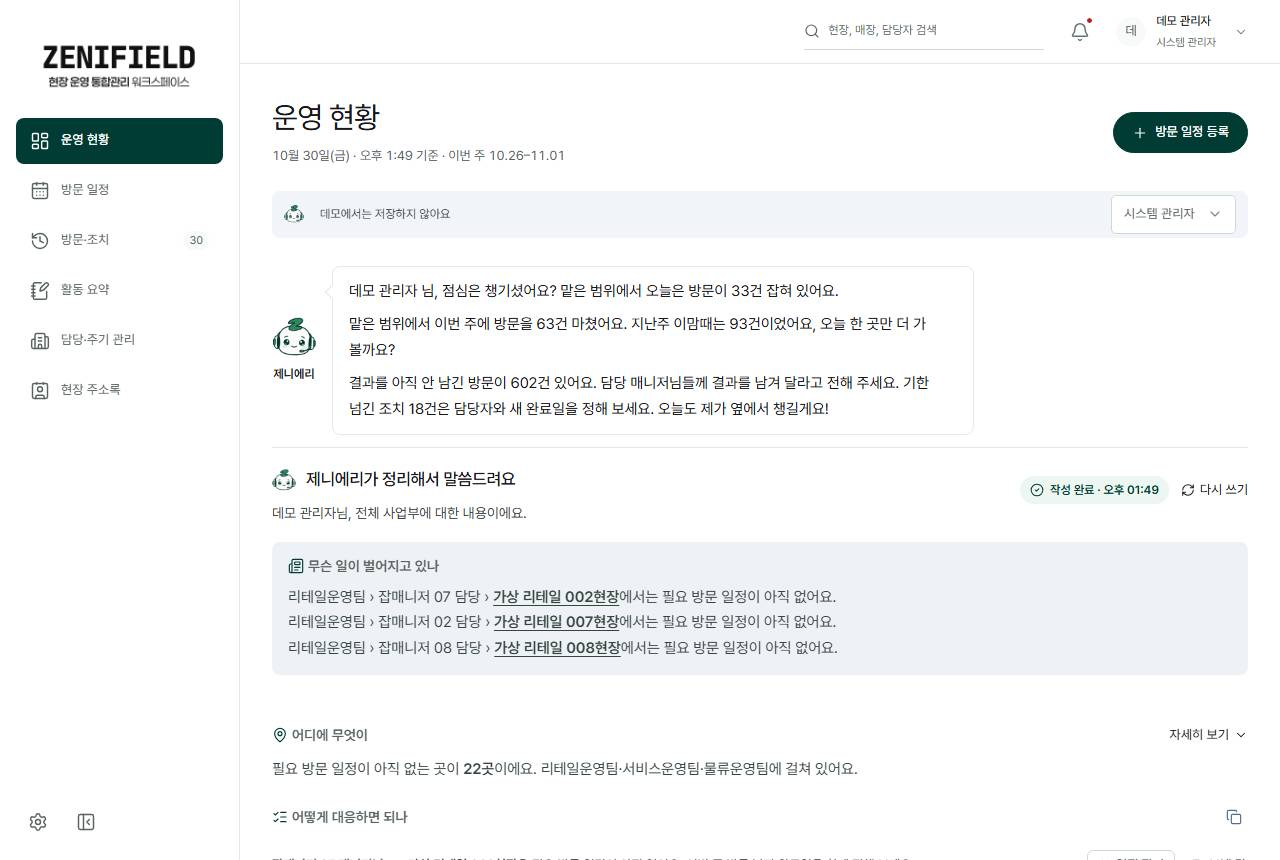
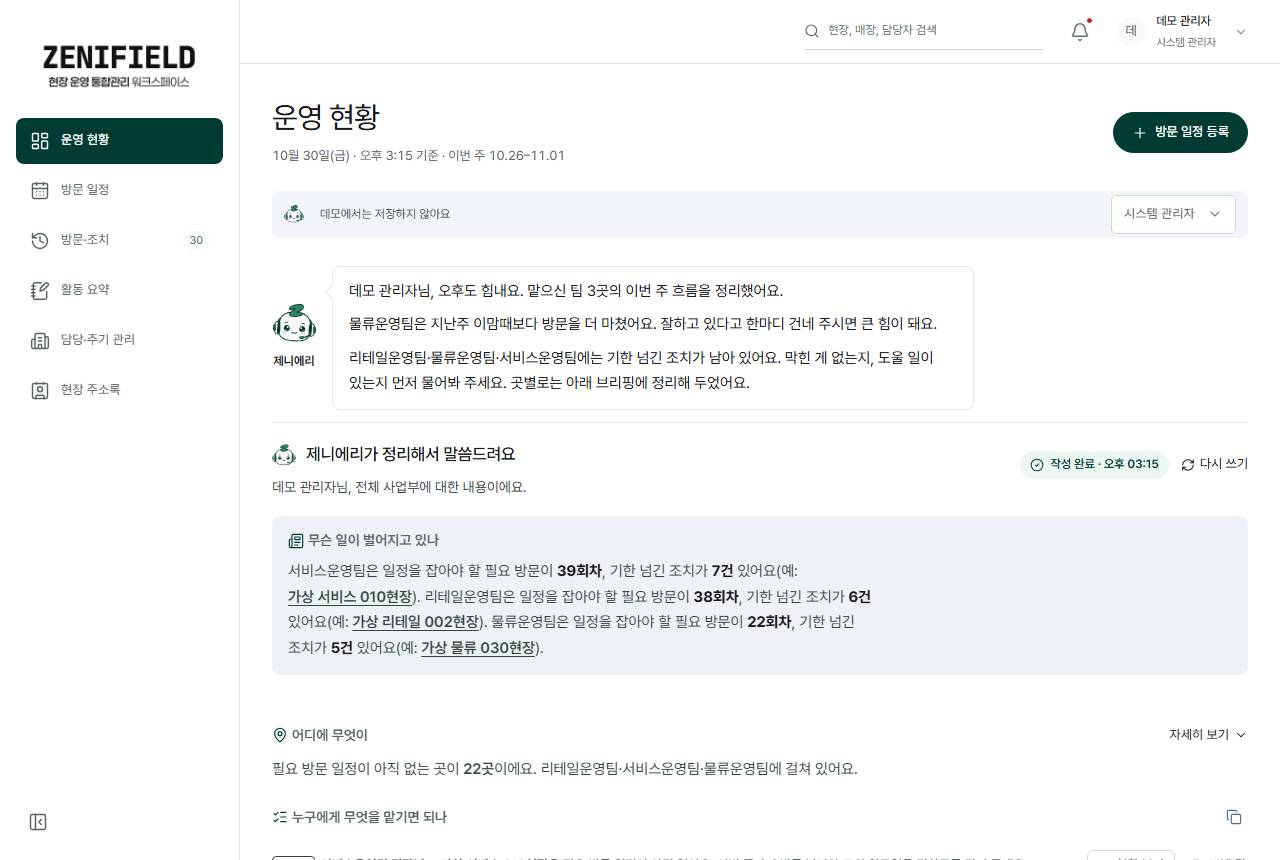
조회 필터: 기간을 범위 버튼 바로 뒤로(모든 화면 한 줄), 설정 아이콘은 프로필 메뉴 안에만(사이드바 아이콘 삭제)

diff --git a/app/platform/app.tsx b/app/platform/app.tsx
@@ -149,7 +149,7 @@ export default function PlatformApp({initialData,liveMode=false,onSaveLive,onDem
  const canNarrow=showLevel('division',divisionOptions)||showLevel('team',teamOptions)||showLevel('part',partOptions)||showLevel('manager',roleManagers)||filterSites.length>1||filterStores.length>1||page==='sites';
  const filterCount=[division,team,part,manager,siteId,storeId,region,status,search].filter(Boolean).length;
  return <div className={'app-shell platform-app '+(collapsed?'sidebar-collapsed':'')}>
- <a inert={mobile} className="skip-link" href="#main-content">본문으로 바로가기</a><aside ref={sidebarRef} id="workspace-sidebar" role={mobile?'dialog':undefined} aria-modal={mobile?true:undefined} aria-label={mobile?'주 메뉴':undefined} className={'sidebar '+(mobile?'mobile-open':'')}><button className="iconbtn mobile-sidebar-close" aria-label="메뉴 닫기" onClick={()=>setMobile(false)}><X size={20}/></button><a className="brand" href="#" onClick={e=>{e.preventDefault();go('dashboard')}} aria-label="ZeniField 통합 홈"><BrandIdentity/></a><nav aria-label="주 메뉴">{nav.map(([id,l0,Icon])=>{const l=navLabel(id,l0,me.role);return <button title={collapsed?l:undefined} className={activePage===id?'selected':''} key={id} onClick={()=>id==='results'?go('actions','미처리'):go(id)} aria-current={activePage===id?'page':undefined}><Icon size={20}/><span>{l}</span>{id==='results'&&openIssues.length>0&&<em>{openIssues.length}</em>}</button>})}</nav><div className="sidebar-bottom">{['admin','director'].includes(me.role)&&<button className={'collapse-btn settings-btn'+(page==='settings'?' selected':'')} aria-label="설정" title="설정" aria-current={page==='settings'?'page':undefined} onClick={()=>go('settings')}><Settings size={20}/></button>}<button className="collapse-btn" aria-label={collapsed?'사이드바 펼치기':'사이드바 접기'} aria-expanded={!collapsed} onClick={()=>setCollapsed(!collapsed)}>{collapsed?<PanelLeftOpen size={20}/>:<PanelLeftClose size={20}/>}</button><div className="sidebar-brand"><div><b>ZeniField Workspace</b><small>계획 · 방문 · 결과 · 후속 조치</small></div></div></div></aside>
+ <a inert={mobile} className="skip-link" href="#main-content">본문으로 바로가기</a><aside ref={sidebarRef} id="workspace-sidebar" role={mobile?'dialog':undefined} aria-modal={mobile?true:undefined} aria-label={mobile?'주 메뉴':undefined} className={'sidebar '+(mobile?'mobile-open':'')}><button className="iconbtn mobile-sidebar-close" aria-label="메뉴 닫기" onClick={()=>setMobile(false)}><X size={20}/></button><a className="brand" href="#" onClick={e=>{e.preventDefault();go('dashboard')}} aria-label="ZeniField 통합 홈"><BrandIdentity/></a><nav aria-label="주 메뉴">{nav.map(([id,l0,Icon])=>{const l=navLabel(id,l0,me.role);return <button title={collapsed?l:undefined} className={activePage===id?'selected':''} key={id} onClick={()=>id==='results'?go('actions','미처리'):go(id)} aria-current={activePage===id?'page':undefined}><Icon size={20}/><span>{l}</span>{id==='results'&&openIssues.length>0&&<em>{openIssues.length}</em>}</button>})}</nav><div className="sidebar-bottom"><button className="collapse-btn" aria-label={collapsed?'사이드바 펼치기':'사이드바 접기'} aria-expanded={!collapsed} onClick={()=>setCollapsed(!collapsed)}>{collapsed?<PanelLeftOpen size={20}/>:<PanelLeftClose size={20}/>}</button><div className="sidebar-brand"><div><b>ZeniField Workspace</b><small>계획 · 방문 · 결과 · 후속 조치</small></div></div></div></aside>
  {mobile&&<button className="mobile-scrim" aria-hidden="true" tabIndex={-1} onClick={()=>setMobile(false)}/>}
  <div className="workspace-main" inert={mobile}><header className="topbar"><div className="header-context"><button className="iconbtn mobile-menu" aria-label="메뉴 열기" aria-expanded={mobile} aria-controls="workspace-sidebar" onClick={()=>setMobile(true)}><Menu size={20}/></button><span>워크스페이스</span><ChevronRight size={14}/><b>{title}</b></div><div className="header-actions"><SearchSuggest className="global-search" label="통합 검색" value={search} onChange={setSearch} options={suggestOptions} onPick={pickSuggestion}/><button className="notification-button iconbtn" aria-label={`확인 필요 업무 ${alertCount}건`} onClick={()=>setNotice(true)}><Bell size={20}/>{alertCount>0&&<i/>}</button><span className="header-divider"/><AccountMenu name={me.name} role={roles[me.role]} org={[me.team,me.part].filter(Boolean).join(' · ')} avatar={<Avatar name={me.name}/>} live={!!liveMode} refreshing={refreshing} onRefresh={onRefresh} onSettings={()=>go('settings')} onLogout={onLogout} onLogin={onConnect}/></div></header>
  <div className={"route-progress"+(pending?" on":"")} role="progressbar" aria-hidden={!pending} aria-label="화면 불러오는 중"><i/></div><main id="main-content" className={"workspace-content"+(pending?" is-pending":"")} tabIndex={-1} aria-busy={pending}><div className="page-heading"><div><div className="page-eyebrow">WORKSPACE <span>/</span> FIELD & STORE OPERATIONS</div><h1>{navLabel(page,title,me.role)}</h1>{page==='dashboard'&&<TodayWhen now={now}/>}</div><div className="page-actions">{editable&&!['settings','briefings','contacts'].includes(page)&&(page!=='sites'||canMaster)&&<><button className="btn primary" onClick={()=>open(primary.entity,undefined,{targetType:type,result:page==='results'})}><Plus size={16}/>{primary.label}</button></>}</div></div>

diff --git a/app/platform/styles.css b/app/platform/styles.css
@@ -501,9 +501,9 @@
 /* 역할별 필터(지침 7절): 기본은 본인 범위로 이미 선택된 상태라 선택 상자를 접어 두고, 현재 범위 버튼을 누르거나 터치할 때만 펼친다 */
 @media(min-width:761px){.app-shell .platform-filters .scope-toggle{display:inline-flex;align-items:center;gap:8px;grid-column:1;grid-row:1;justify-self:start;align-self:center;width:auto;min-height:44px;padding:0 14px;border:1px solid var(--zf-control-border);border-radius:8px;background:var(--zf-surface);color:var(--zf-text);font-size:14px;font-weight:600}.app-shell .platform-filters:not(.filterbar-open) #workspace-filters{display:none}.app-shell .platform-filters.filterbar-open #workspace-filters{display:grid;grid-column:1/-1;grid-row:2;grid-template-columns:repeat(auto-fit,minmax(160px,1fr));gap:8px;padding:0;border:0;margin:0}}
 /* 운영 화면 조회 필터 배치(761px 이상)는 이 블록이 기준이다. 앞선 filterbar 규칙을 덮어쓰며, 다른 파일에 배치 규칙을 더 만들지 않는다.
-   태블릿·데스크톱: [범위 버튼] ··· [기간][초기화] 한 줄(모든 화면 같음) / 펼친 선택 상자는 맨 아래 줄 */
+   태블릿·데스크톱: [범위 버튼][기간] ··· [초기화] 한 줄(기간은 범위 버튼 바로 뒤, 모든 화면 같음) / 펼친 선택 상자는 맨 아래 줄 */
 @media(min-width:761px){
- .app-shell .platform-filters .filterbar-primary{display:grid;grid-template-columns:auto minmax(0,1fr) auto auto;grid-template-areas:"scope . period reset" "selects selects selects selects";align-items:center;gap:8px 12px;flex-wrap:nowrap}
+ .app-shell .platform-filters .filterbar-primary{display:grid;grid-template-columns:auto auto minmax(0,1fr) auto;grid-template-areas:"scope period . reset" "selects selects selects selects";align-items:center;gap:8px 12px;flex-wrap:nowrap}
  .app-shell .platform-filters .filterbar-label{display:none}
  .app-shell .platform-filters .scope-toggle{grid-area:scope}
  .app-shell .platform-filters .filterbar-period{grid-area:period;display:flex;align-items:center;gap:8px;flex-wrap:nowrap;margin:0;max-width:none;flex:none}
@@ -531,9 +531,9 @@
 .period-custom .btn{grid-column:1/-1;min-height:44px}
 .period-custom p{grid-column:1/-1;font-size:11px;color:var(--zf-text-secondary)}
 @media(max-width:760px){.period-picker .period-step{width:40px;min-height:44px}.period-picker .period-label{min-width:0;flex:1;min-height:44px}.app-shell .platform-filters .filterbar-period{flex:1 1 auto;min-width:0}.period-picker{width:100%}.period-panel{position:fixed;left:0;right:0;bottom:0;top:auto;width:auto;max-width:none;padding:16px 16px calc(16px + env(safe-area-inset-bottom));border-radius:12px 12px 0 0}}
-/* 운영 화면 조회 필터 배치(760px 이하): [범위 버튼][초기화] / [◀ 기간 ▶] 전체 폭 / 펼친 선택 상자 */
+/* 운영 화면 조회 필터 배치(760px 이하): [범위 버튼][◀ 기간 ▶][초기화] 한 줄 / 펼친 선택 상자 */
 @media(max-width:760px){
- .app-shell .platform-filters .filterbar-primary{display:grid;grid-template-columns:minmax(0,1fr) 44px;grid-template-areas:"scope reset" "period period" "selects selects";align-items:center;gap:8px}
+ .app-shell .platform-filters .filterbar-primary{display:grid;grid-template-columns:auto minmax(0,1fr) 44px;grid-template-areas:"scope period reset" "selects selects selects";align-items:center;gap:8px}
  .app-shell .platform-filters .scope-toggle{grid-area:scope;min-height:44px}
  .app-shell .platform-filters .filterbar-period{grid-area:period;display:flex;width:100%;margin:0}
  .app-shell .platform-filters .reset-button{grid-area:reset;width:44px;min-width:44px;min-height:44px}
@@ -1103,3 +1103,7 @@ html.zf-calm .zf-ai-mark,html.zf-calm .zeni-working-dots i{animation:none!import
 .route-line{flex-wrap:nowrap;overflow-x:auto;overscroll-behavior-x:contain;scrollbar-width:thin;padding-bottom:2px}
 .route-line>li{flex:none}
 .route-map>li{min-width:0}
+
+/* 기간 창은 기간 버튼 아래 왼쪽 정렬(범위 버튼 바로 뒤에 붙었으므로) */
+@media(min-width:761px){.period-panel{left:0;right:auto}}
+@media(max-width:760px){.app-shell .platform-filters .scope-toggle{padding:0 10px}.app-shell .platform-filters .period-picker .period-label{font-size:12px;padding:0 6px}}

diff --git a/AGENTS.md b/AGENTS.md
@@ -46,11 +46,11 @@
 [디자인 지침](docs/DESIGN-zenielfield.md) 요약. 지금 유효한 것만 둔다(폐기 결정은 지침 이력에). 지침을 바꾸면 여기와 `PROJECT_RULE.md` DC-DESIGN-*도 같이 바꾼다. 마지막 정리 2026-10-30.
 
 **뼈대**
-- 메뉴(업무 흐름순, 모든 직급 같은 이름·같은 구성 — 내용 범위만 직급별): 운영 현황 · 방문 일정 · 방문·조치(방문 기록+후속 조치 한 화면) · 활동 요약 · 담당·주기 관리 · 현장 주소록. 설정 = 사이드바 하단 아이콘(관리자·사업부장). 통계·보고서 없음. 페이지 키 불변.
+- 메뉴(업무 흐름순, 모든 직급 같은 이름·같은 구성 — 내용 범위만 직급별): 운영 현황 · 방문 일정 · 방문·조치(방문 기록+후속 조치 한 화면) · 활동 요약 · 담당·주기 관리 · 현장 주소록. 설정 = 프로필(아바타) 메뉴 안에만(사이드바·다른 곳에 설정 아이콘 금지). 통계·보고서 없음. 페이지 키 불변.
 - 로고 `public/brand/zenifield_logo.png`(`BrandIdentity`) 로그인188/사이드바180/모바일158px. 사이드바 현재 메뉴 = 딥그린 채움+흰 글자, 점 표식 금지(빨간 점은 알림 종 전용).
 - 데모 = 상단 반투명 제니에리 띠 하나(역할 선택 포함), 화면 구성은 운영과 같음. 계정 동작은 오른쪽 위 아바타 메뉴 하나.
 - 날짜는 위 조회 기간 하나로만 바꾼다(달력 안 날짜 이동·제목 없음, 단위별·주간 달력은 그 주로 맞춤). 방문 길라잡이는 늘 이번 주. 일정 등록 날짜는 `방문 날짜` 한 칸(칩+입력).
-- 반응형 ≤760 / 761–1023 / ≥1024 / ≥1440만. 조회 필터는 761px 이상 한 줄·모바일 두 줄. 390·820·1280px 확인.
+- 반응형 ≤760 / 761–1023 / ≥1024 / ≥1440만. 조회 필터 = [범위][◀ 기간 ▶] 붙여서 맨 앞 한 줄(모든 화면), 초기화만 끝. 390·820·1280px 확인.
 - 등록 동작은 화면마다 하나: PC 머리 버튼 / 모바일 하단 가운데 + 버튼(같은 동작, 짧은 이름), 모바일 머리 등록 버튼 없음. 하단 메뉴 홈·방문 일정·등록·방문·조치·더보기. 화면을 바꾸면 `npm run screenshots`로 README 화면 다시 찍기.
 
 **색·글자·아이콘**
@@ -108,7 +108,7 @@
 
 **기타**
 - 활동 요약 = 기간 브리핑 + 날짜 축 타임라인. 상세 화면 `--zf-detail-*` 토큰(지침 9.1).
-- 조회 필터 = 범위 버튼 하나 + `[◀ 기간 ▶]` 하나, 태블릿·데스크톱 모든 화면 한 줄(모바일 두 줄). 검색 자동완성 8개(초성).
+- 조회 필터 = 범위 버튼 바로 뒤 `[◀ 기간 ▶]`, 모든 화면 한 줄(기간을 오른쪽 끝으로 떼어 놓지 않음). 검색 자동완성 8개(초성).
 - 푸터 `v버전 · 커밋 · 시각`, 새 버전 알림 띠, 로그인 단계형 로딩(제니에리 말풍선), 메뉴 전환 `useTransition`+3px 막대.
 - 속도: Map 색인·`useMemo`, 루프 안 전체 재필터 금지.
 - 설정 = 탭(내 계정 · 사용자·권한 · 관리 도메인 · 브리핑 내용), 프로필 메뉴는 새로고침·설정·로그아웃만. 내 계정 = 프로필·본인 비밀번호·제니에리 움직임 스위치. 사용자·권한 = 명단 양식·명단 올리기(미리 보기 후 n건 반영)·사용자 등록 + 찾기·역할·상태 + 표(수정 버튼). 지침 끝 2026-10-30 설정 절.

diff --git a/PROJECT_RULE.md b/PROJECT_RULE.md
@@ -39,7 +39,7 @@
 | Guard | Condition → Action |
 |-------|-------------------|
 | DC-DESIGN | UI·디자인 변경 → `docs/DESIGN-zenielfield.md` 해당 절 확인 → 지침에 없거나 다르면 지침 먼저 갱신 → **같은 변경에서 `AGENTS.md` "현재 디자인 결정"과 아래 DC-DESIGN-* 행도 갱신(빠지면 미완료)** → 구현 → 390/820/1280px 실화면 검증 → `docs/` 기록. 대체·폐기된 기준은 `docs/design-history.md`로 옮기고 지침·룰에 남기지 않음 |
-| DC-DESIGN-SHELL | 날짜 = 위 조회 기간 하나(달력 안 날짜 이동·제목 금지, 길라잡이는 늘 이번 주, 일정 등록 날짜는 한 칸). 메뉴 = 모든 직급 같은 이름·같은 화면 구성(범위만 직급별): 운영 현황·방문 일정·방문 기록·후속 조치·활동 요약·담당·주기 관리·현장 주소록, 설정 = 사이드바 하단 아이콘, 페이지 키 불변. 로고 `BrandIdentity` 188/180/158px. 현재 메뉴 딥그린 채움·점 금지. 데모 = 상단 띠 하나, 운영과 같은 구성. 반응형 ≤760/761–1023/≥1024/≥1440만. 조회 필터 = 범위 버튼 + 기간 하나, 761px 이상 모든 화면 한 줄 |
+| DC-DESIGN-SHELL | 날짜 = 위 조회 기간 하나(달력 안 날짜 이동·제목 금지, 길라잡이는 늘 이번 주, 일정 등록 날짜는 한 칸). 메뉴 = 모든 직급 같은 이름·같은 화면 구성(범위만 직급별): 운영 현황·방문 일정·방문 기록·후속 조치·활동 요약·담당·주기 관리·현장 주소록, 설정 = 프로필 메뉴 안에만(설정 아이콘 금지), 페이지 키 불변. 로고 `BrandIdentity` 188/180/158px. 현재 메뉴 딥그린 채움·점 금지. 데모 = 상단 띠 하나, 운영과 같은 구성. 반응형 ≤760/761–1023/≥1024/≥1440만. 조회 필터 = 범위 버튼 바로 뒤 기간 하나, 모든 화면 한 줄 |
 | DC-DESIGN-REGISTER | 화면마다 등록 하나(`primary` entity·label·short): PC 머리 버튼, 모바일 하단 가운데 + 버튼 같은 동작·짧은 이름, 모바일 머리 등록 숨김. 하단 메뉴 홈·방문 일정·등록·방문·조치·더보기. 화면 변경 커밋은 `npm run screenshots`로 `docs/screenshots` 갱신. 갱신 2026-10-30 |
 | DC-DESIGN-VISUAL | 딥그린 `#003c33` 단일 강조, 상태색 완료/예정 `#516e8a`/지연 `#b42318`/미등록 `#8a4b00`, 빨강 = 기한 넘긴 사실만, 옅은 표면 2개만. Pretendard 하나, 글자 ≥11px·축 12px, keep-all. Lucide 14/16/20/24·선 1.75, 터치 44px. 이동용 ChevronRight는 단독 버튼이 아니라 링크 제목 바로 옆 14px 아이콘(한 초점/클릭 영역). 패널 흰색·상단 1px 선. 부제 설명·지표 꼬리·인쇄 버튼·표 제목 건수 금지. 문단은 칸(주제)마다 하나·문장별 줄 나누기 금지, 본문 15px·행간 1.7·`--zf-read-measure`(68ch) |
 | DC-DESIGN-ZENIERI | AI 표시 = `AiMark`(`zenieri-chatbot.png`, 24/20/44px) 하나, 정리·브리핑 머리·말풍선은 7초마다 통통(`zeni-hop`, 설정 → 내 계정 스위치 `zf-calm`·reduced-motion 정지). 정리 칸 제목은 화면별 상황 질문 + 대응 질문. 문장 = 제니에리 해요체 완결 문장·직함 호칭, 메모체·콜론 나열 금지(AI `briefPrompt`·규칙 `ruleBrief` 모두). 권한 안내는 거부 때만. 지침 9-B |
